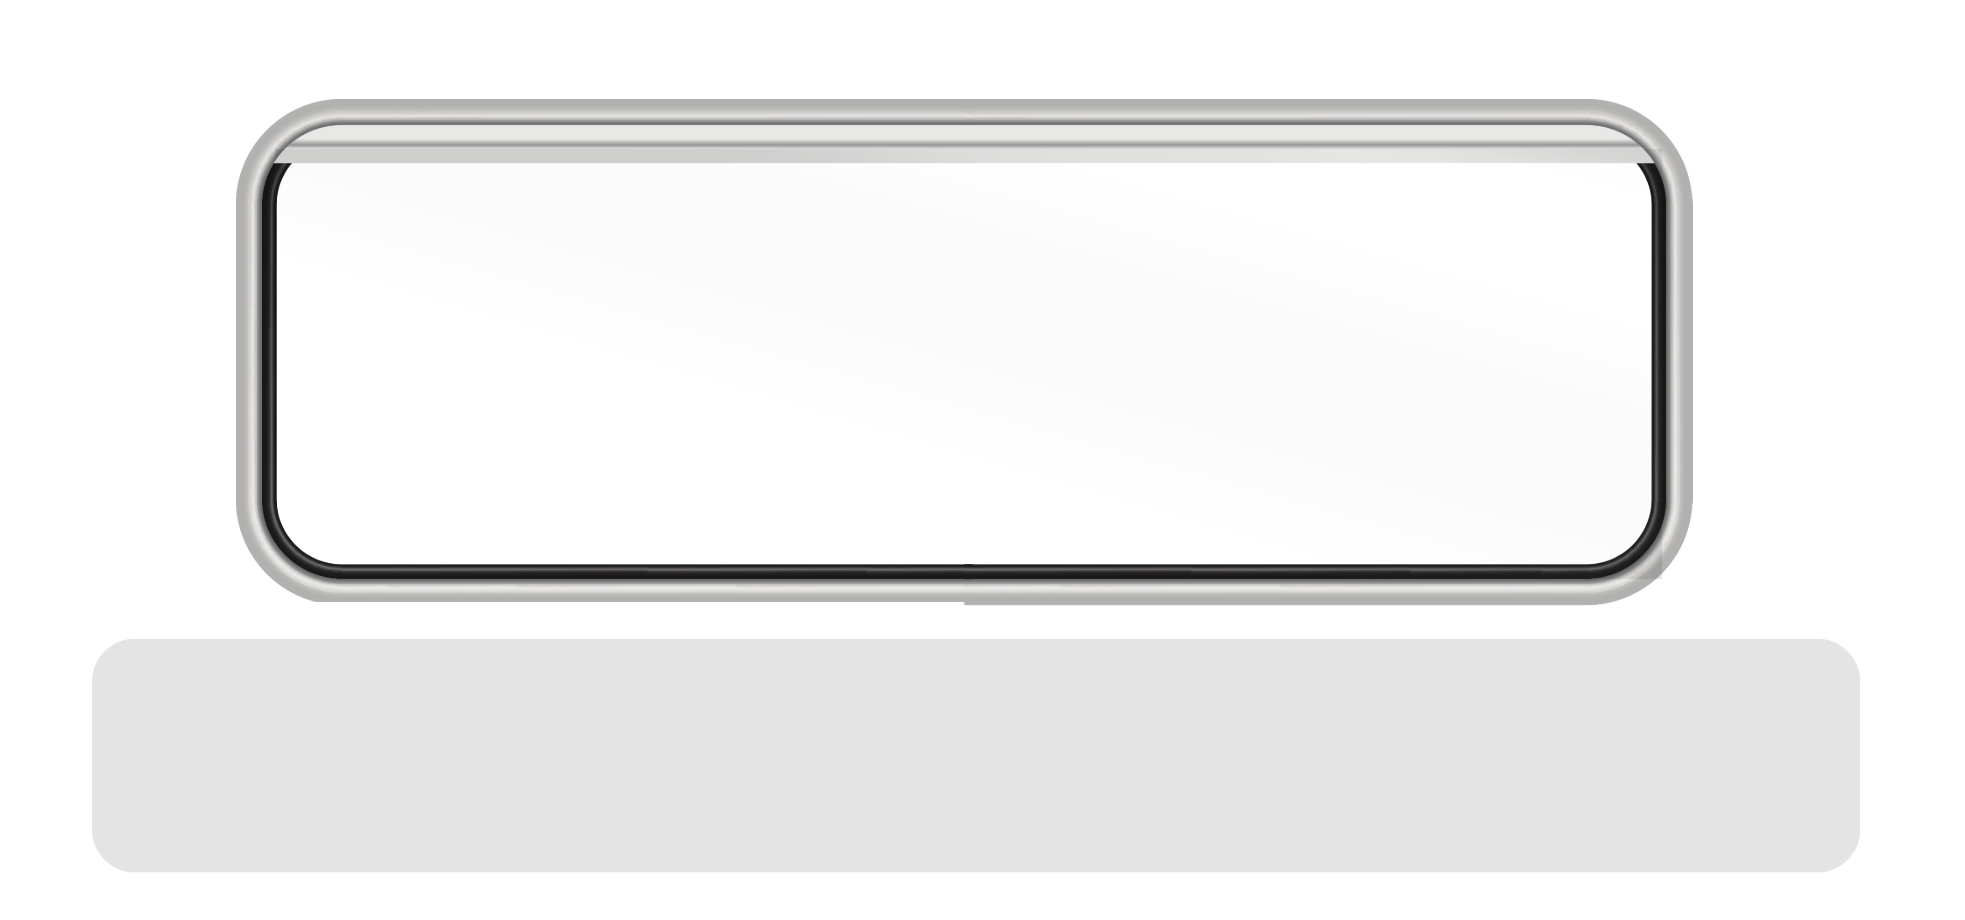
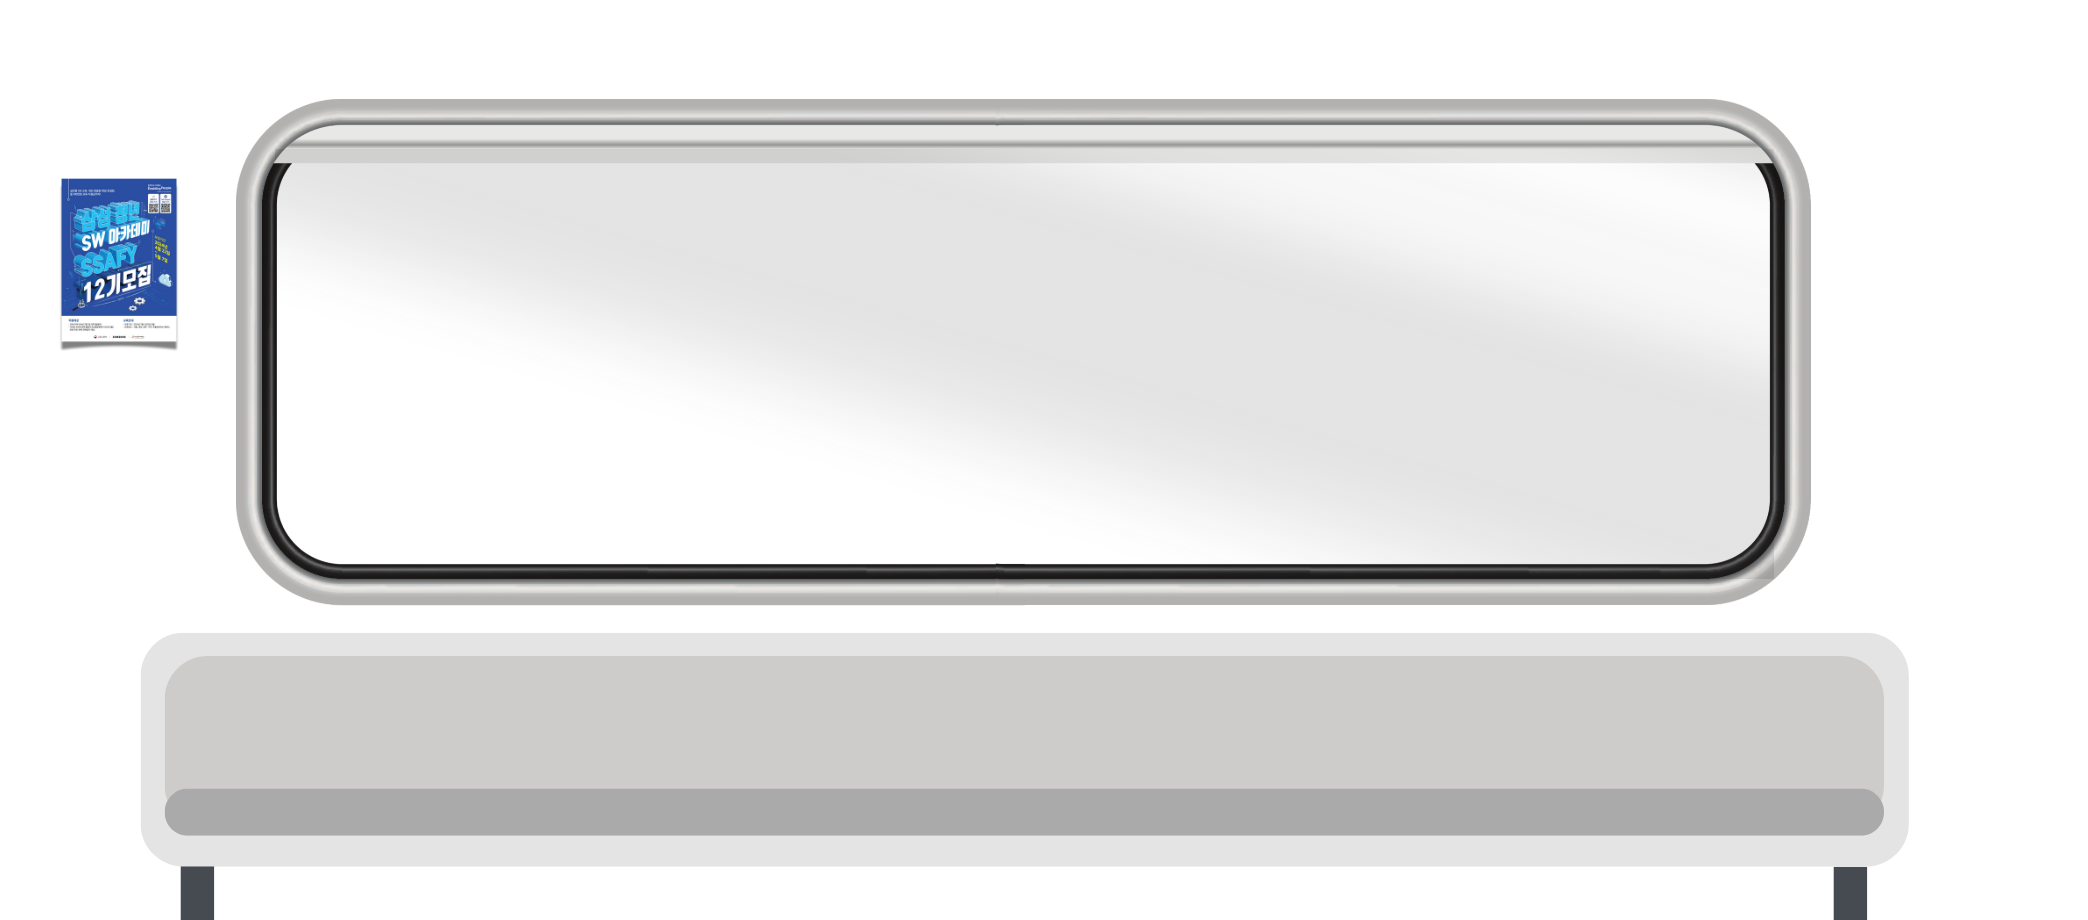
subway2

Changed region(s): [[0.031, 0.0913, 0.9623, 1.0]]

diff --git a/frontend/src/components/finalresult/Round3.jsx b/frontend/src/components/finalresult/Round3.jsx
@@ -1,19 +1,12 @@
-import React, { useEffect, useState } from "react";
+import React, { useEffect, useState, useRef } from "react";
 import styled from "styled-components";
 import { useRecoilValue } from "recoil";
 import { gameRecordAtom } from "../../recoil/atoms/gameState";
 import { roomAtom } from "../../recoil/atoms/roomState";
 import { playerState } from "../../recoil/atoms/gameState";
 
-import subbg from "../../assets/subbg.jpg";
+import subwaybg from "../../assets/sbBG.jpg";
 import subway from "../../assets/subway.png";
-import car from "../../assets/final/car.png";
-
-import opencar from "../../assets/opencar.png";
-import gang from "../../assets/ganggangg.png";
-import gwang from "../../assets/gwanggwang.png";
-import mingang from "../../assets/final/mingang.png";
-import practice from "../../assets/final/practice.jpg";
 
 const Container = styled.div`
   position: relative;
@@ -26,11 +19,11 @@ const BackgroundWrapper = styled.div`
   position: absolute;
   top: 0;
   left: 0;
-  width: 310%;
+  width: 600%; /* 배경 이미지의 실제 너비 */
   height: 100%;
   transition: transform ${(props) => props.speed}s linear;
   transform: ${(props) => `translateX(-${props.offset}px)`};
-  z-index: 1; /* BackgroundWrapper가 위에 위치하도록 설정 */
+  z-index: 1;
 `;
 
 const BgImage = styled.img`
@@ -44,78 +37,49 @@ const SubwayImage = styled.img`
   left: 0;
   width: 100%;
   height: 100%;
-  z-index: 1; /* Subway가 가장 아래에 위치하도록 설정 */
+  z-index: 1;
 `;
 
 const CarContainer = styled.div`
   position: absolute;
   bottom: 0;
-  left: 0;
+  left: 50%;
+  transform: translateX(-50%);
   height: 260px;
   display: flex;
   align-items: center;
   justify-content: center;
-  z-index: 2; /* CarContainer가 BackgroundWrapper 위에 위치 */
+  z-index: 2;
 `;
 
-const Car = styled.img`
+const Profile = styled.img`
   height: 100%;
-`;
-
-const Mingang = styled.img`
-  position: absolute;
-  height: 30%;
-  top: 10%;
   border-radius: 50%;
-  overflow: hidden;
+  margin: 0 5px;
 `;
 
 const Banner = styled.div`
+  margin-top: 100px;
   position: absolute;
-  width: 180px;
-  height: 96px;
-  background-color: #4e7f1c;
+  width: 600px;
+  height: 120px;
+  background-color: white;
   font-family: "hangil";
-  color: #edeeea;
+  color: black;
+  font-size: 40px;
   display: flex;
   align-items: center;
   justify-content: center;
   border: 0.6px solid black;
   z-index: 3;
-  &::before,
-  &::after {
-    content: "";
-    position: absolute;
-    top: -100%;
-    width: 12px;
-    height: 110%;
-    background-color: gray;
-    border-radius: 6px;
-  }
-  &::before {
-    left: 0;
-  }
-  &::after {
-    right: 0;
-  }
-`;
-
-const InnerRectangle = styled.div`
-  width: 90%;
-  height: 90%;
-  border: 2.4px solid #edeeea;
-  background-color: transparent;
-  display: flex;
-  align-items: center;
-  justify-content: center;
-  color: #edeeea;
+  text-align: center;
 `;
 
 function Round3() {
   const [offset, setOffset] = useState(0);
-  const [speed, setSpeed] = useState(0.033); // 초기 속도 (3배 빠름)
-  const [carPosition, setCarPosition] = useState(0);
-  const [isCarStopped, setIsCarStopped] = useState(false);
+  const [speed, setSpeed] = useState(0.000120040204012);
+  const [isLastBannerVisible, setIsLastBannerVisible] = useState(false);
+  const backgroundRef = useRef(null);
 
   const gameRecord = useRecoilValue(gameRecordAtom);
   const roomInfo = useRecoilValue(roomAtom);
@@ -123,23 +87,22 @@ function Round3() {
 
   useEffect(() => {
     const interval = setInterval(() => {
+      if (isLastBannerVisible) {
+        setSpeed((prevSpeed) => Math.max(prevSpeed - 0.005, 0)); // 속도를 점점 줄임
+        if (speed <= 0.005) {
+          clearInterval(interval); // 속도가 0에 가까워지면 멈춤
+        }
+        return;
+      }
+
       setOffset((prev) => {
         const newOffset = prev + 30;
 
-        // Banner가 중앙에 올 때 속도 조절
-        const centralPosition = window.innerWidth / 2;
         if (
-          newOffset >= centralPosition - 100 &&
-          newOffset <= centralPosition + 100
+          backgroundRef.current &&
+          newOffset >= backgroundRef.current.scrollWidth - window.innerWidth
         ) {
-          setSpeed(0.1); // 속도 느리게
-        } else {
-          setSpeed(0.033); // 원래 속도
-        }
-
-        if (newOffset >= window.innerWidth * 2) {
-          clearInterval(interval);
-          moveCarToEnd();
+          setIsLastBannerVisible(true); // 배경이 끝까지 도달하면 멈춤
         }
 
         return newOffset;
@@ -147,48 +110,33 @@ function Round3() {
     }, 100);
 
     return () => clearInterval(interval);
-  }, []);
-
-  const moveCarToEnd = () => {
-    const interval = setInterval(() => {
-      setCarPosition((prev) => {
-        const newPosition = prev + 10;
-
-        if (newPosition >= window.innerWidth - 600) {
-          clearInterval(interval);
-          setIsCarStopped(true);
-        }
-
-        return newPosition;
-      });
-    }, 100);
-  };
+  }, [isLastBannerVisible, speed]);
 
   const renderBanners = () => {
     const positions = {
-      1: ["90%"],
-      2: ["52.5%", "90%"],
-      3: ["40%", "60%", "90%"],
+      1: ["88%"],
+      2: ["30%", "88%"],
+      3: ["30%", "60%", "88%"],
     };
     const roundRecords = gameRecord[0]?.roundRecordList || [];
-    // const round = roundRecords.length;
-    const round = 1;
+    const round = roundRecords.length;
+
     if (positions[round] && roundRecords.length > 0) {
       return roundRecords.map((record, index) => {
-        const isLastBanner = index === roundRecords.length - 1 && isCarStopped;
+        const isLastBanner = index === roundRecords.length - 1;
+
+        const positionInPx = parseFloat(positions[round][index]); // 전체 배경 길이에 대한 비율로 위치 계산
 
         return (
           <Banner
             key={index}
+            ref={isLastBanner ? backgroundRef : null}
             style={{
               top: "15%",
-              left: positions[round][index],
-              backgroundColor: isLastBanner ? "#2046f6" : undefined,
+              left: `${positionInPx}%`, // 배너가 배경 전체 크기의 비율로 나타나도록 조정
             }}
           >
-            <InnerRectangle>
-              {isLastBanner ? "안녕히 가십시오." : record.stationName}
-            </InnerRectangle>
+            {record.stationName}
           </Banner>
         );
       });
@@ -198,23 +146,23 @@ function Round3() {
 
   return (
     <Container>
-      <BackgroundWrapper offset={offset} speed={speed}>
-        <BgImage src={subbg} alt="Background" />
+      <BackgroundWrapper ref={backgroundRef} offset={offset} speed={speed}>
+        <BgImage src={subwaybg} alt="Background" />
         <Banner style={{ top: "15%", left: "10%" }}>
-          <InnerRectangle>{roomInfo.centerPlace.name}</InnerRectangle>
+          {roomInfo.centerPlace.name}
         </Banner>
         {renderBanners()}
       </BackgroundWrapper>
       <SubwayImage src={subway} alt="Subway" />
-      <CarContainer style={{ left: `${carPosition}px` }}>
+      <CarContainer>
         {players.map((player, index) => (
-          <Mingang
+          <Profile
             key={player.attendeeUUID}
             src={player.profileImageUrl}
             alt={player.nickname}
             style={{
-              left: `${index * 50}px`,
               zIndex: 10 + index,
+              width: `${100 / players.length}%`,
             }}
           />
         ))}

diff --git a/frontend/src/routes/MyPage.jsx b/frontend/src/routes/MyPage.jsx
@@ -128,55 +128,55 @@ const Mypage = () => {
     }
   };
 
-  useEffect(() => {
-    const token = Cookies.get("accessToken");
-    if (token) {
-      setIsLogined(true); // accessToken이 있으면 로그인 상태로 설정
-    } else {
-      // accessToken이 없으면 팝업을 띄우고 로그인 페이지로 리다이렉트
-      toast.error("로그인이 필요합니다! 로그인하러 슈슝", {
-        position: "top-center",
-        autoClose: 3000,
-        onClose: () => {
-          navigate("/");
-        },
-      });
-    }
-  }, [navigate]);
+  // useEffect(() => {
+  //   const token = Cookies.get("accessToken");
+  //   if (token) {
+  //     setIsLogined(true); // accessToken이 있으면 로그인 상태로 설정
+  //   } else {
+  //     // accessToken이 없으면 팝업을 띄우고 로그인 페이지로 리다이렉트
+  //     toast.error("로그인이 필요합니다! 로그인하러 슈슝", {
+  //       position: "top-center",
+  //       autoClose: 3000,
+  //       onClose: () => {
+  //         navigate("/");
+  //       },
+  //     });
+  //   }
+  // }, [navigate]);s
 
   return (
     <>
       <GlobalStyle />
       <DivWrapperContainer>
         <NavBarUp />
-        {isLogined && ( // isLogined가 true일 때만 렌더링
-          <>
-            <Frame>
-              <TextWrapper>Hi,{userInfo.nickname}</TextWrapper>
-              <Btns>
-                <Button onClick={() => scrollToRef(infoBoxRef)}>
-                  <ButtonText>INFO</ButtonText>
-                </Button>
-                <Button onClick={() => scrollToRef(meetingBoxRef)}>
-                  <ButtonText>MEETING HISTORY</ButtonText>
-                </Button>
-                <Button>
-                  <ButtonText onClick={KakaoLogout}>LOG OUT</ButtonText>
-                </Button>
-              </Btns>
-            </Frame>
-            <Frame2>
-              <Subtitle>INFO</Subtitle>
-              <InfoContainer ref={infoBoxRef}>
-                <InfoBox />
-              </InfoContainer>
-              <Subtitle>MEETING HISTORY</Subtitle>
-              <MeetingContainer ref={meetingBoxRef}>
-                <MeetingBox />
-              </MeetingContainer>
-            </Frame2>
-          </>
-        )}
+        {/* {isLogined && ( // isLogined가 true일 때만 렌더링 */}
+        <>
+          <Frame>
+            <TextWrapper>Hi,{userInfo.nickname}</TextWrapper>
+            <Btns>
+              <Button onClick={() => scrollToRef(infoBoxRef)}>
+                <ButtonText>INFO</ButtonText>
+              </Button>
+              <Button onClick={() => scrollToRef(meetingBoxRef)}>
+                <ButtonText>MEETING HISTORY</ButtonText>
+              </Button>
+              <Button>
+                <ButtonText onClick={KakaoLogout}>LOG OUT</ButtonText>
+              </Button>
+            </Btns>
+          </Frame>
+          <Frame2>
+            <Subtitle>INFO</Subtitle>
+            <InfoContainer ref={infoBoxRef}>
+              <InfoBox />
+            </InfoContainer>
+            <Subtitle>MEETING HISTORY</Subtitle>
+            <MeetingContainer ref={meetingBoxRef}>
+              <MeetingBox />
+            </MeetingContainer>
+          </Frame2>
+        </>
+        {/* )} */}
       </DivWrapperContainer>
       <ToastContainer />
     </>

diff --git a/frontend/src/components/finalresult/ResultBox.jsx b/frontend/src/components/finalresult/ResultBox.jsx
@@ -6,7 +6,7 @@ const round = 3;
 const Container = styled.div`
   background-color: ${(props) => props.theme.subBgColor};
   width: 100%;
-  height: 600px;
+  height: 80%;
   margin-top: 80px;
   outline: 3px solid black; /* 3px outline 추가 */
 `;
